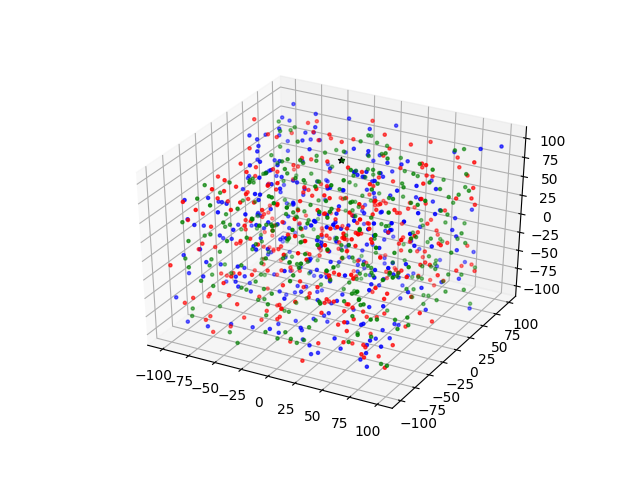
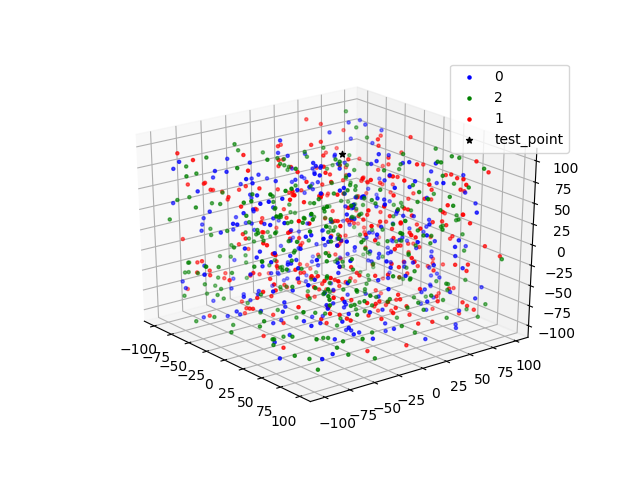
update readme

Changed region(s): [[0.1875, 0.1562, 0.9062, 0.9062], [0.75, 0.125, 0.7812, 0.1562]]

diff --git a/kan_ml/knn.py b/kan_ml/knn.py
@@ -53,7 +53,8 @@ class KNN:
                 tag_count[kt] = tag_count[kt] + 1
             else:
                 tag_count[kt] = 1
-        tag_count_list = sorted(tag_count.items(), key=lambda item: item[1], reverse=True)
+        tag_count_list = sorted(
+            tag_count.items(), key=lambda item: item[1], reverse=True)
         # print tag_count_list
         result = tag_count_list[0][0]
         return result
@@ -80,18 +81,24 @@ class KNN:
         if dimensions == 2:
             fig = plt.figure()
             ax = fig.add_subplot(111)
-            for item in xs:
-                item_matrix = np.array(item).T
-                ax.scatter(item_matrix[0], item_matrix[1], c=col_gen.next(), marker='.')
-            ax.scatter(self.test_point[0], self.test_point[1], c='black', marker='*')
+            for i in range(len(xs)):
+                item_matrix = np.array(xs[i]).T
+                ax.scatter(item_matrix[0], item_matrix[1],
+                           c=col_gen.next(), marker='.', label=tag[i])
+            ax.scatter(self.test_point[0],
+                       self.test_point[1], c='black', marker='*', label='test_point')
+            plt.legend()
             plt.show()
         if dimensions == 3:
             fig = plt.figure()
             ax = fig.add_subplot(111, projection='3d')
-            for item in xs:
-                item_matrix = np.array(item).T
-                ax.scatter(item_matrix[0], item_matrix[1], item_matrix[2], c=col_gen.next(), marker='.')
-            ax.scatter(self.test_point[0], self.test_point[1], self.test_point[2], c='black', marker='*')
+            for i in range(len(xs)):
+                item_matrix = np.array(xs[i]).T
+                ax.scatter(item_matrix[0], item_matrix[1], item_matrix[2], c=col_gen.next(
+                ), marker='.', label=tag[i])
+            ax.scatter(self.test_point[0], self.test_point[1],
+                       self.test_point[2], c='black', marker='*', label='test_point')
+            plt.legend()
             plt.show()
 
     def __distance(self, point_a, point_b):

diff --git a/README.md b/README.md
@@ -28,6 +28,7 @@ y = np.array([(1, 1, -1)]).T
 sensor = Sensor(x, y, 0.3, 20, True)
 [w, b] = sensor.get_paras()
 ```
+![image](https://github.com/kanyuanzhi/kan_ML/raw/master/docs/images/sensor.png)
 
 ## KNN
 
